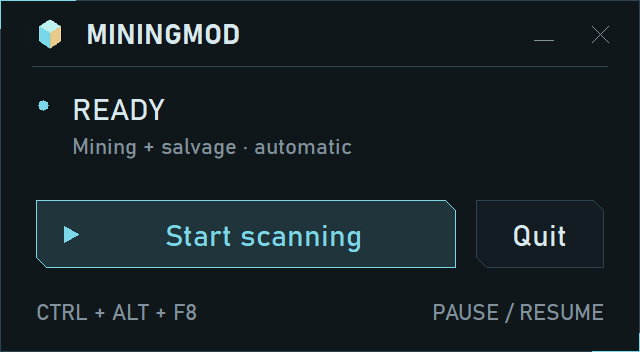
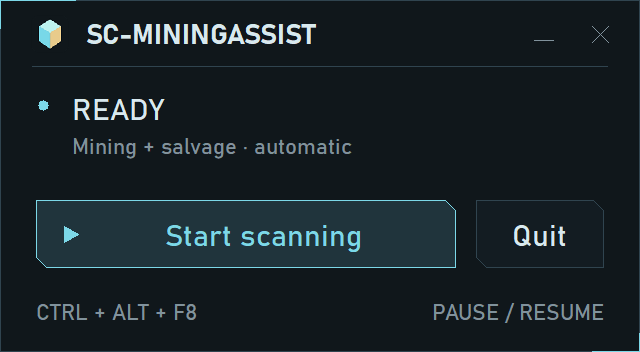
Rename project and application to SC-MiningAssist

Changed region(s): [[0.125, 0.0625, 0.5, 0.125]]

diff --git a/src/ui.rs b/src/ui.rs
@@ -79,7 +79,7 @@ pub fn error(message: &str) {
         MessageBoxW(
             null_mut(),
             wide(message).as_ptr(),
-            wide("MiningMod").as_ptr(),
+            wide("SC-MiningAssist").as_ptr(),
             MB_OK | MB_ICONERROR,
         );
     }
@@ -135,6 +135,8 @@ pub fn run() -> Result<(), String> {
     unsafe {
         SetProcessDpiAwarenessContext(DPI_AWARENESS_CONTEXT_PER_MONITOR_AWARE_V2);
         SCALE.with(|s| s.set(GetDpiForSystem() as f64 / 96.0));
+        // Retain the pre-release window classes and mutex so the old and renamed
+        // executables still share a single instance during an upgrade.
         let mutex = CreateMutexW(null(), 0, wide("Local\\MiningMod.v1").as_ptr());
         let already_running = GetLastError() == ERROR_ALREADY_EXISTS;
         if mutex.is_null() {
@@ -154,7 +156,7 @@ pub fn run() -> Result<(), String> {
                 }
                 std::thread::sleep(Duration::from_millis(40));
             }
-            return Err("MiningMod is running, but its window is unavailable. Close that instance, then restart MiningMod.".into());
+            return Err("SC-MiningAssist is running, but its window is unavailable. Close that instance, then restart SC-MiningAssist.".into());
         }
         let instance = GetModuleHandleW(null());
         let brush = CreateSolidBrush(panel::BACKGROUND);
@@ -193,7 +195,7 @@ pub fn run() -> Result<(), String> {
         let main = CreateWindowExW(
             WS_EX_APPWINDOW,
             wide("MiningMod.Main").as_ptr(),
-            wide("MiningMod").as_ptr(),
+            wide("SC-MiningAssist").as_ptr(),
             WS_POPUP | WS_SYSMENU | WS_MINIMIZEBOX | WS_CLIPCHILDREN,
             (GetSystemMetrics(SM_CXSCREEN) - px(320)) / 2,
             (GetSystemMetrics(SM_CYSCREEN) - px(176)) / 2,
@@ -207,7 +209,7 @@ pub fn run() -> Result<(), String> {
         let overlay = CreateWindowExW(
             WS_EX_TOPMOST | WS_EX_TOOLWINDOW | WS_EX_NOACTIVATE | WS_EX_LAYERED | WS_EX_TRANSPARENT,
             wide("MiningMod.Overlay").as_ptr(),
-            wide("MiningMod · Overlay").as_ptr(),
+            wide("SC-MiningAssist · Overlay").as_ptr(),
             WS_POPUP,
             0,
             0,
@@ -236,7 +238,7 @@ pub fn run() -> Result<(), String> {
         child(
             main,
             "STATIC",
-            "MININGMOD",
+            "SC-MININGASSIST",
             0,
             [43, 8, 170, 18],
             panel::BRAND as usize,
@@ -375,7 +377,7 @@ unsafe fn tray_data(main: HWND) -> NOTIFYICONDATAW {
         uCallbackMessage: TRAY,
         ..Default::default()
     };
-    let tip = wide("MiningMod · right-click for controls");
+    let tip = wide("SC-MiningAssist · right-click for controls");
     data.szTip[..tip.len()].copy_from_slice(&tip);
     data
 }
@@ -611,7 +613,7 @@ unsafe extern "system" fn main_proc(hwnd: HWND, msg: u32, wp: WPARAM, lp: LPARAM
             // starts so timer, close and command messages remain serviceable.
             let running = APP.with(|cell| cell.borrow().as_ref().is_some_and(|a| a.running));
             let menu = CreatePopupMenu();
-            AppendMenuW(menu, MF_STRING, 200, wide("Show MiningMod").as_ptr());
+            AppendMenuW(menu, MF_STRING, 200, wide("Show SC-MiningAssist").as_ptr());
             AppendMenuW(
                 menu,
                 MF_STRING,
@@ -619,7 +621,7 @@ unsafe extern "system" fn main_proc(hwnd: HWND, msg: u32, wp: WPARAM, lp: LPARAM
                 wide(if running { "Pause" } else { "Start" }).as_ptr(),
             );
             AppendMenuW(menu, MF_SEPARATOR, 0, null());
-            AppendMenuW(menu, MF_STRING, QUIT, wide("Quit MiningMod").as_ptr());
+            AppendMenuW(menu, MF_STRING, QUIT, wide("Quit SC-MiningAssist").as_ptr());
             let mut p = POINT::default();
             GetCursorPos(&mut p);
             SetForegroundWindow(hwnd);

diff --git a/build.rs b/build.rs
@@ -1,9 +1,9 @@
 use std::{env, fs, path::PathBuf, process::Command};
 
 fn main() {
-    println!("cargo:rerun-if-changed=assets/miningmod.ico");
-    println!("cargo:rerun-if-changed=assets/miningmod.rc");
-    let out = PathBuf::from(env::var_os("OUT_DIR").unwrap()).join("miningmod.res");
+    println!("cargo:rerun-if-changed=assets/sc-mining-assist.ico");
+    println!("cargo:rerun-if-changed=assets/sc-mining-assist.rc");
+    let out = PathBuf::from(env::var_os("OUT_DIR").unwrap()).join("sc-mining-assist.res");
     let sdk = PathBuf::from(env::var_os("ProgramFiles(x86)").expect("Windows SDK required"))
         .join("Windows Kits/10/bin");
     let mut versions: Vec<_> = fs::read_dir(sdk)
@@ -19,7 +19,7 @@ fn main() {
     let result = Command::new(rc)
         .args(["/nologo", "/fo"])
         .arg(&out)
-        .arg("assets/miningmod.rc")
+        .arg("assets/sc-mining-assist.rc")
         .status()
         .expect("Resource compiler failed");
     assert!(result.success(), "Icon resource compilation failed");

diff --git a/src/config.rs b/src/config.rs
@@ -46,7 +46,7 @@ impl Settings {
         std::env::var_os("LOCALAPPDATA")
             .map(PathBuf::from)
             .unwrap_or_else(std::env::temp_dir)
-            .join("MiningMod")
+            .join("SC-MiningAssist")
             .join("settings.json")
     }
     pub fn load() -> Self {

diff --git a/docs/DETAILS.md b/docs/DETAILS.md
@@ -4,7 +4,7 @@ A lightweight local mining and salvage assistant for Star Citizen. It reads the 
 
 ## Getting started
 
-1. Extract the release archive and run **MiningMod.exe** on Windows 10/11 x64.
+1. Extract the release archive and run **SC-MiningAssist.exe** on Windows 10/11 x64.
 2. Click **Start scanning**. The window minimizes; mining and salvage detection are automatic.
 3. Return to Star Citizen in **borderless windowed mode** and display an RS signature in scan mode.
 
@@ -18,13 +18,13 @@ A confirmed signature remains visible while successful readings continue. Brief 
 
 ## Minimal interface
 
-The compact dark control window contains only the current status, **Start scanning / Pause scanning**, and **Quit**. Detection mode, area, rate and opacity are automatic. **Ctrl + Alt + F8** toggles pause/resume. Double-click the crystal tray icon to reopen the window; right-click for the controls or **Quit MiningMod**.
+The compact dark control window contains only the current status, **Start scanning / Pause scanning**, and **Quit**. Detection mode, area, rate and opacity are automatic. **Ctrl + Alt + F8** toggles pause/resume. Double-click the crystal tray icon to reopen the window; right-click for the controls or **Quit SC-MiningAssist**.
 
 The overlay remains a single click-through line: resource, rock count, and **LOW / MEDIUM / HIGH** in green, gold or red; salvage shows **SALVAGE · N PANELS**. It is **28 px tall** at 100% Windows scaling, centered against the monitor's top edge, with cyan/gold text and cut corners. No animations, focus stealing or additional information line. Unidentified ROC/FPS deposits and salvage are not assigned mineral difficulty.
 
 **Quit**, the X button, Alt+F4 and taskbar Close all exit the program. **Start scanning** keeps it active in the background. Launching again reopens the existing window. The program starts paused, does not add itself to Windows startup, and does not require administrator privileges.
 
-Legacy preferences in **%LOCALAPPDATA%\\MiningMod\\settings.json** no longer constrain detection: old manual areas, activity filters, refresh settings and opacity choices are reset to the automatic policy when loading. The custom mineral catalog remains supported.
+Legacy preferences in **%LOCALAPPDATA%\\SC-MiningAssist\\settings.json** no longer constrain detection: old manual areas, activity filters, refresh settings and opacity choices are reset to the automatic policy when loading. The custom mineral catalog remains supported.
 
 ## What the signature tells us
 
@@ -38,7 +38,7 @@ The application automatically searches for mining rocks and salvage panels. For 
 
 ROC/FPS modes show deposit counts only, without guessing the gem type. Distances with units, rounded values such as **10.8K**, incomplete readings and unmatched numbers are ignored in automatic mode.
 
-Difficulty is a **mineral-level estimate**, not confirmation that a particular rock can be fractured. It takes the higher relative resistance/instability rating from the [SCMINER community mineral directory](https://scminer.rocks/data/mineral-directory), checked November 15, 2026, and groups those ratings into three categories. This grouping is specific to MiningMod. The table and source are in [data/mining-difficulty.json](../data/mining-difficulty.json). Cluster count does not change the difficulty of an individual rock. Actual mass, secondary composition, scanned resistance, laser head and modules are still needed to judge feasibility. A custom resource with no known properties displays **?**.
+Difficulty is a **mineral-level estimate**, not confirmation that a particular rock can be fractured. It takes the higher relative resistance/instability rating from the [SCMINER community mineral directory](https://scminer.rocks/data/mineral-directory), checked November 15, 2026, and groups those ratings into three categories. This grouping is specific to SC-MiningAssist. The table and source are in [data/mining-difficulty.json](../data/mining-difficulty.json). Cluster count does not change the difficulty of an individual rock. Actual mass, secondary composition, scanned resistance, laser head and modules are still needed to judge feasibility. A custom resource with no known properties displays **?**.
 
 The mineral catalog in [data/signatures.json](../data/signatures.json) is a community 4.7+ reference from [STARVEIN](https://starvein.app/en/signatures), checked November 15, 2026. It is not in-game validation of the current patch. Search limits are 12 rocks (**max_rocks**) and 100 panels (**max_panels**); these are application limits, not guaranteed in-game cluster sizes. **salvage_panel_rs** sets the panel base signature. Place a modified **signatures.json** beside the executable and restart to override the embedded catalog. Older catalogs without salvage fields receive the defaults. Custom names are displayed exactly as supplied.
 
@@ -81,9 +81,9 @@ To diagnose an image:
 
 ~~~powershell
 # Automatic search and verification of the small tracked rectangle
-Start-Process .\dist\MiningMod.exe -ArgumentList '--ocr-file "C:\path\capture.jpg" --output "C:\path\report.json"' -WindowStyle Hidden -Wait
+Start-Process .\dist\SC-MiningAssist.exe -ArgumentList '--ocr-file "C:\path\capture.jpg" --output "C:\path\report.json"' -WindowStyle Hidden -Wait
 # Read a precise x,y,width,height rectangle
-Start-Process .\dist\MiningMod.exe -ArgumentList '--ocr-file "C:\path\capture.jpg" --rect 2540,928,105,45 --output "C:\path\report.json"' -WindowStyle Hidden -Wait
+Start-Process .\dist\SC-MiningAssist.exe -ArgumentList '--ocr-file "C:\path\capture.jpg" --rect 2540,928,105,45 --output "C:\path\report.json"' -WindowStyle Hidden -Wait
 ~~~
 
 Diagnostic commands write only the requested report. They do not modify settings or source images. The default activity is Auto; use **--mode auto|mining|salvage|roc|fps** to select another.

diff --git a/README.md b/README.md
@@ -1,10 +1,10 @@
-<p align="center"><img src="assets/miningmod.svg" width="80" alt="MiningMod crystal icon"></p>
+<p align="center"><img src="assets/sc-mining-assist.svg" width="80" alt="SC-MiningAssist crystal icon"></p>
 
-# MiningMod
+# SC-MiningAssist
 
 **Read the signature. See the resource. Keep flying.**
 
-A small, local **Star Citizen mining and salvage overlay for Windows**, written in Rust. MiningMod reads the RS number on screen and shows the matching resource and estimated rock count, or the number of salvage panels.
+A small, local **Star Citizen mining and salvage overlay for Windows**, written in Rust. SC-MiningAssist reads the RS number on screen and shows the matching resource and estimated rock count, or the number of salvage panels.
 
 <p align="center"><img src="docs/images/hud.png" width="565" alt="One-line overlay: Bexalite, 3 rocks, HIGH"></p>
 
@@ -18,15 +18,15 @@ A small, local **Star Citizen mining and salvage overlay for Windows**, written 
 
 Requires **Windows 10/11 x64** with an English or French Windows OCR language installed. The app is entirely in English.
 
-1. Download the portable **MiningMod-v0.1.0-win64.zip** from [GitHub Releases](https://github.com/maxbook/miningmod/releases/tag/v0.1.0). Extract the archive; do not run it from inside the ZIP.
-2. Open **MiningMod.exe** and click **Start scanning**.
+1. Download the portable **SC-MiningAssist-v0.1.0-win64.zip** from [GitHub Releases](https://github.com/maxbook/SC-MiningAssist/releases/tag/v0.1.0). Extract the archive; do not run it from inside the ZIP.
+2. Open **SC-MiningAssist.exe** and click **Start scanning**.
 3. Return to Star Citizen in **borderless windowed mode** and display an RS signature in scan mode.
 
-<p align="center"><img src="docs/images/panel.png" width="320" alt="MiningMod control window with Ready status, Start scanning and Quit"></p>
+<p align="center"><img src="docs/images/panel.png" width="320" alt="SC-MiningAssist control window with Ready status, Start scanning and Quit"></p>
 
 **Ctrl + Alt + F8** pauses or resumes detection. Double-click the tray icon to reopen the window, or right-click it for controls. **Quit**, the close button, Alt+F4 and taskbar Close all exit the app. Launching it a second time reopens the existing window.
 
-No installer or administrator privileges are needed. MiningMod starts paused and does not add itself to Windows startup. The first preview is unsigned.
+No installer or administrator privileges are needed. SC-MiningAssist starts paused and does not add itself to Windows startup. The first preview is unsigned.
 
 ## What the result means
 
@@ -64,7 +64,7 @@ Install [Rust with rustup](https://www.rust-lang.org/tools/install), Visual Stud
 
 ## License and credits
 
-MiningMod code and original icon artwork are available under the [MIT license](LICENSE). Dependency licenses are included in [THIRD_PARTY_NOTICES.txt](THIRD_PARTY_NOTICES.txt).
+SC-MiningAssist code and original icon artwork are available under the [MIT license](LICENSE). Dependency licenses are included in [THIRD_PARTY_NOTICES.txt](THIRD_PARTY_NOTICES.txt).
 
 Signature references: [STARVEIN](https://starvein.app/en/signatures), [SC Signature Scanner salvage data](https://github.com/Diftic/SC_Signature_Scanner/blob/master/SignatureValue.md#salvage). Mineral ratings: [SCMINER](https://scminer.rocks/data/mineral-directory). Attribution is also kept with the data.
 

diff --git a/docs/PORTABLE.md b/docs/PORTABLE.md
@@ -1,13 +1,13 @@
-# MiningMod — portable Windows preview
+# SC-MiningAssist — portable Windows preview
 
 1. Extract this entire archive into a folder.
-2. Run MiningMod.exe on Windows 10/11 x64.
+2. Run SC-MiningAssist.exe on Windows 10/11 x64.
 3. Click Start scanning, then return to Star Citizen in borderless windowed mode.
 4. Display the RS signature in scan mode. The top-edge overlay shows estimated resources, rock counts or salvage panel counts.
 
-Ctrl + Alt + F8 pauses/resumes. Double-click the tray icon to reopen the window; right-click for controls. Quit, the X, Alt+F4 and taskbar Close exit the program. MiningMod starts paused, has no installer, does not require administrator privileges and does not add itself to Windows startup.
+Ctrl + Alt + F8 pauses/resumes. Double-click the tray icon to reopen the window; right-click for controls. Quit, the X, Alt+F4 and taskbar Close exit the program. SC-MiningAssist starts paused, has no installer, does not require administrator privileges and does not add itself to Windows startup.
 
-English or French Windows OCR support must be installed. The interface is in English. If OCR is unavailable, open Windows Settings > Time & language > Language & region, install English or French language features with OCR support, then restart MiningMod. Windows editions differ; the OCR optional capability may need to be installed by your administrator.
+English or French Windows OCR support must be installed. The interface is in English. If OCR is unavailable, open Windows Settings > Time & language > Language & region, install English or French language features with OCR support, then restart SC-MiningAssist. Windows editions differ; the OCR optional capability may need to be installed by your administrator.
 
 If no result appears, confirm Star Citizen is the foreground app, display a complete readable RS number, and allow time for a fallback search after a large head movement. Exclusive fullscreen, motion blur, reflections and small HUD text can interfere. A hotkey already registered by another app can be replaced by the tray controls.
 
@@ -15,7 +15,7 @@ Results are estimates from community signature data, not the scanned composition
 
 A confirmed result stays visible while successful reads continue; brief OCR misses are tolerated for five seconds. Pausing or switching away hides the overlay. Detection runs locally using Windows OCR. Normal operation never saves or sends screen images and never reads game memory or modifies game files.
 
-The optional signatures.json beside the executable overrides the built-in catalog. Settings are stored in %LOCALAPPDATA%\MiningMod\settings.json. Older manual areas, rates and activity filters are reset to automatic behavior. To uninstall, quit and delete the extracted folder; the settings folder can also be removed.
+The optional signatures.json beside the executable overrides the built-in catalog. Settings are stored in %LOCALAPPDATA%\SC-MiningAssist\settings.json. Older manual areas, rates and activity filters are reset to automatic behavior. To uninstall, quit and delete the extracted folder; the settings folder can also be removed.
 
 The preview executable is unsigned. Source code, documentation and release checksums are supplied with the GitHub project. Retain LICENSE and THIRD_PARTY_NOTICES.txt when redistributing.
 

diff --git a/CONTRIBUTING.md b/CONTRIBUTING.md
@@ -1,6 +1,6 @@
-# Contributing to MiningMod
+# Contributing to SC-MiningAssist
 
-Keep MiningMod small, local and unobtrusive. The app should remain a native Rust/Win32 utility with an English UI, automatic detection and a one-line overlay.
+Keep SC-MiningAssist small, local and unobtrusive. The app should remain a native Rust/Win32 utility with an English UI, automatic detection and a one-line overlay.
 
 ## Build
 
@@ -17,7 +17,7 @@ The build script discovers the MSVC linker and SDK. A standard rustup installati
 
 ## Checks that need a Windows desktop
 
-Close MiningMod first. Install an English or French Windows OCR language, then run:
+Close SC-MiningAssist first. Install an English or French Windows OCR language, then run:
 
 ```powershell
 .\tests\verify-panel.ps1
@@ -26,7 +26,7 @@ Close MiningMod first. Install an English or French Windows OCR language, then r
 .\tests\verify-tracking.ps1
 ```
 
-The panel and HUD checks use PrintWindow on MiningMod's own windows. They do not start a desktop capture session. The lifecycle checks exercise single-instance startup, tray-menu shutdown and taskbar Close. Tracking tests generate their own synthetic images, cover target changes and distance rejection, and write reports under artifacts/.
+The panel and HUD checks use PrintWindow on SC-MiningAssist's own windows. They do not start a desktop capture session. The lifecycle checks exercise single-instance startup, tray-menu shutdown and taskbar Close. Tracking tests generate their own synthetic images, cover target changes and distance rejection, and write reports under artifacts/.
 
 If artifacts/original.png, head-left.png, head-right-down.png, 1440p.png or 1080p.png exist, tracking checks also replay them as optional cockpit fixtures expecting RS 10800. These personal game screenshots are not part of the repository. The separate verify-ocr.ps1 script needs a supplied 5120×2880 screenshot with RS 10800; it is not a clean-checkout prerequisite.
 
@@ -49,6 +49,6 @@ For detection fixes, add a focused failing case using synthetic images or a mini
 
 ## Icon and dependencies
 
-Edit assets/miningmod.svg, then run assets/build-icon.ps1 on Windows. The script generates the committed PNG and ICO at 16–256 px; System.Drawing is a build-time convenience, not an application dependency.
+Edit assets/sc-mining-assist.svg, then run assets/build-icon.ps1 on Windows. The script generates the committed PNG and ICO at 16–256 px; System.Drawing is a build-time convenience, not an application dependency.
 
 Keep Cargo.lock committed. When changing dependencies, review their license metadata and regenerate notices with scripts/update-notices.ps1. Commit the updated THIRD_PARTY_NOTICES.txt. Contributions are accepted under the repository's MIT license.

diff --git a/docs/PUBLISHING.md b/docs/PUBLISHING.md
@@ -1,18 +1,18 @@
-# Publishing MiningMod
+# Publishing SC-MiningAssist
 
-The public project is [maxbook/miningmod](https://github.com/maxbook/miningmod). Follow the release steps below for subsequent previews. The initial repository setup is retained for forks and maintainers creating a separate repository.
+The public project is [maxbook/SC-MiningAssist](https://github.com/maxbook/SC-MiningAssist). Follow the release steps below for subsequent previews. The initial repository setup is retained for forks and maintainers creating a separate repository.
 
 ## Before the first push
 
 1. Review README.md, LICENSE, the community data attribution and the exact Git file list. Keep .tools/, target/, dist/, artifacts/ and private screenshots out of Git.
 2. Run the checks in CONTRIBUTING.md on Windows, including the local panel/HUD/lifecycle/OCR tracking checks.
 3. Run scripts/package.ps1. It produces a portable ZIP and SHA256SUMS.txt in dist/, with an explicit file allowlist and an integrity check for every archive entry.
-4. Create an **empty public** GitHub repository named miningmod on the intended account. Do not initialize another README or license on GitHub.
+4. Create an **empty public** GitHub repository named SC-MiningAssist on the intended account. Do not initialize another README or license on GitHub.
 
 For the intended maxbook account, once the empty repository exists:
 
 ```powershell
-git remote add origin https://github.com/maxbook/miningmod.git
+git remote add origin https://github.com/maxbook/SC-MiningAssist.git
 git push -u origin main
 ```
 
@@ -27,7 +27,7 @@ Suggested topics: `star-citizen`, `mining`, `salvage`, `ocr`, `rust`, `windows`,
 Wait for Windows CI to pass on main. Update the version in Cargo.toml/Cargo.lock, CHANGELOG.md, README.md and docs/RELEASE_NOTES.md together. Date the changelog entry and commit before tagging. The commands below use the first preview's version as an example; choose a new version for subsequent releases.
 
 ```powershell
-git tag -a v0.1.0 -m "MiningMod 0.1.0 preview"
+git tag -a v0.1.0 -m "SC-MiningAssist 0.1.0 preview"
 git push origin main
 git push origin v0.1.0
 ```
@@ -39,7 +39,7 @@ The workflow deliberately does not publish or announce the release automatically
 ## Verify a downloaded archive
 
 ```powershell
-Get-FileHash .\MiningMod-v0.1.0-win64.zip -Algorithm SHA256
+Get-FileHash .\SC-MiningAssist-v0.1.0-win64.zip -Algorithm SHA256
 ```
 
 Compare the result with SHA256SUMS.txt from the same release. The checksum verifies bytes; it is not a code-signing certificate.

diff --git a/docs/RELEASE_NOTES.md b/docs/RELEASE_NOTES.md
@@ -1,8 +1,8 @@
-First portable preview of MiningMod for Windows x64.
+First portable preview of SC-MiningAssist for Windows x64.
 
 Read an on-screen Star Citizen RS signature and see estimated mining resources, rock counts or salvage panel counts in a compact top-edge overlay. Includes automatic tracking, native Windows OCR, mineral difficulty hints, a minimal dark UI and tray controls.
 
-Download **MiningMod-v0.1.0-win64.zip**, extract it and run **MiningMod.exe**. Click **Start scanning**, then return to Star Citizen in borderless windowed mode. **Ctrl + Alt + F8** pauses/resumes.
+Download **SC-MiningAssist-v0.1.0-win64.zip**, extract it and run **SC-MiningAssist.exe**. Click **Start scanning**, then return to Star Citizen in borderless windowed mode. **Ctrl + Alt + F8** pauses/resumes.
 
 Requires Windows 10/11 x64 with English or French Windows OCR support. The preview executable is unsigned. SHA256SUMS.txt contains the archive's checksum.
 

diff --git a/.github/pull_request_template.md b/.github/pull_request_template.md
@@ -4,4 +4,4 @@ What problem does this solve, and what does the user see differently?
 
 ## Validation
 
-List relevant checks and any remaining limitations. For detection changes, include the input and expected result. For UI changes, attach a screenshot of MiningMod's own window.
+List relevant checks and any remaining limitations. For detection changes, include the input and expected result. For UI changes, attach a screenshot of SC-MiningAssist's own window.

diff --git a/.github/ISSUE_TEMPLATE/bug_report.md b/.github/ISSUE_TEMPLATE/bug_report.md
@@ -14,7 +14,7 @@ Describe the expected and actual result, including the RS value if relevant.
 2.
 
 **Environment**
-- MiningMod version:
+- SC-MiningAssist version:
 - Windows version:
 - Star Citizen patch:
 - Resolution and Windows display scaling:
